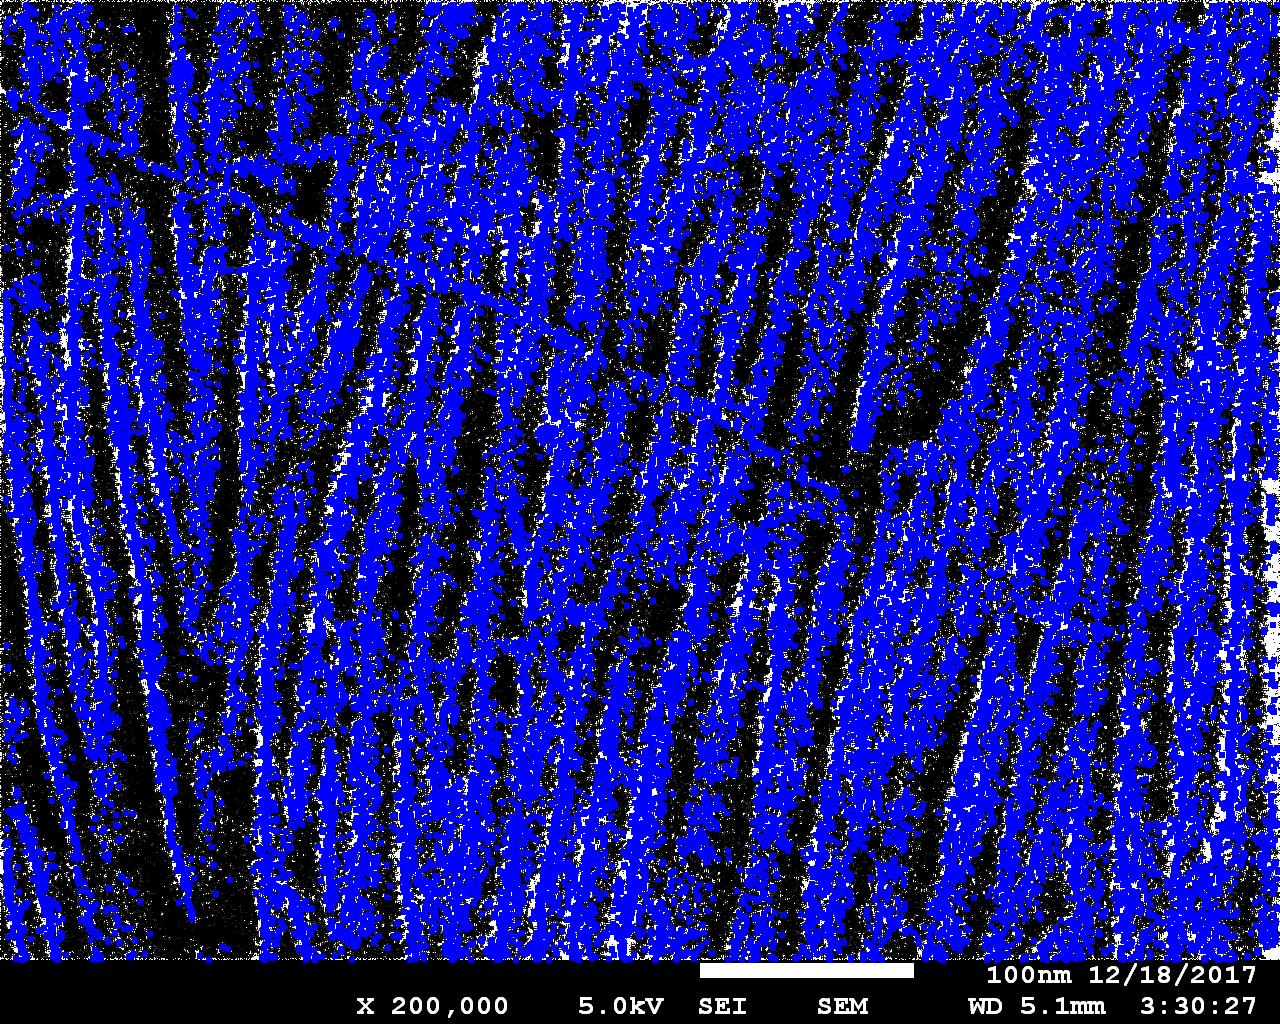
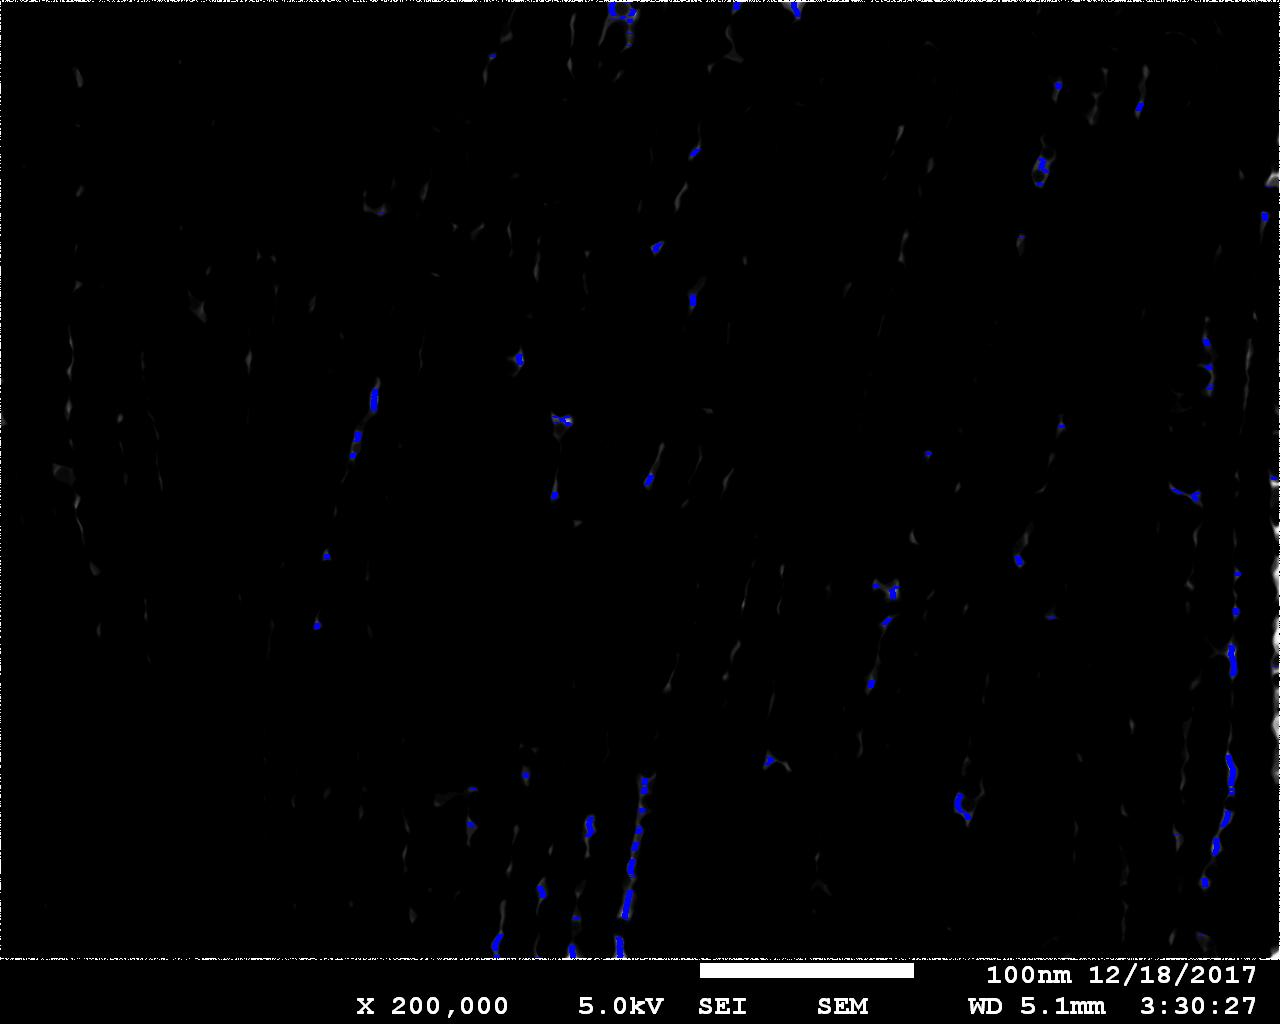
some more test changes

diff --git a/CNT Counter/src/drivers/Tester.java b/CNT Counter/src/drivers/Tester.java
@@ -19,15 +19,12 @@ public class Tester {
 		String file = in.next();
 		BufferedImage img = ImageUtils.readImage("images/" + file + ".jpg");
 		
-		BufferedImage cpy = new BufferedImage(img.getWidth(), img.getHeight(), img.TYPE_INT_RGB);
-		Graphics2D g2d = cpy.createGraphics();
-		g2d.drawImage(img, 0, 0, null);
-		
-		g2d.setColor(Color.green);
-		g2d.fillRect(20, 20, 20, 20);
+		img = ImageUtils.averageExposure(img);
+		img = ImageUtils.contrast(img);
+		img = ImageUtils.contrastByRow(img);
 
 		try {
-			ImageIO.write(cpy, "jpg", new File("images/" + file + "_test.jpg"));
+			ImageIO.write(img, "jpg", new File("images/" + file + "_test.jpg"));
 		} catch (IOException e) {
 			// TODO Auto-generated catch block
 			e.printStackTrace();

diff --git a/CNT Counter/src/utils/ImageUtils.java b/CNT Counter/src/utils/ImageUtils.java
@@ -322,6 +322,7 @@ public class ImageUtils {
 	}
 	
 	//more advanced noise reduction algorithm
+	//TODO: revert stronger filter changes
 	public static BufferedImage medianFilter(BufferedImage img) {
 		BufferedImage cpy = deepCopy(img);
 		
